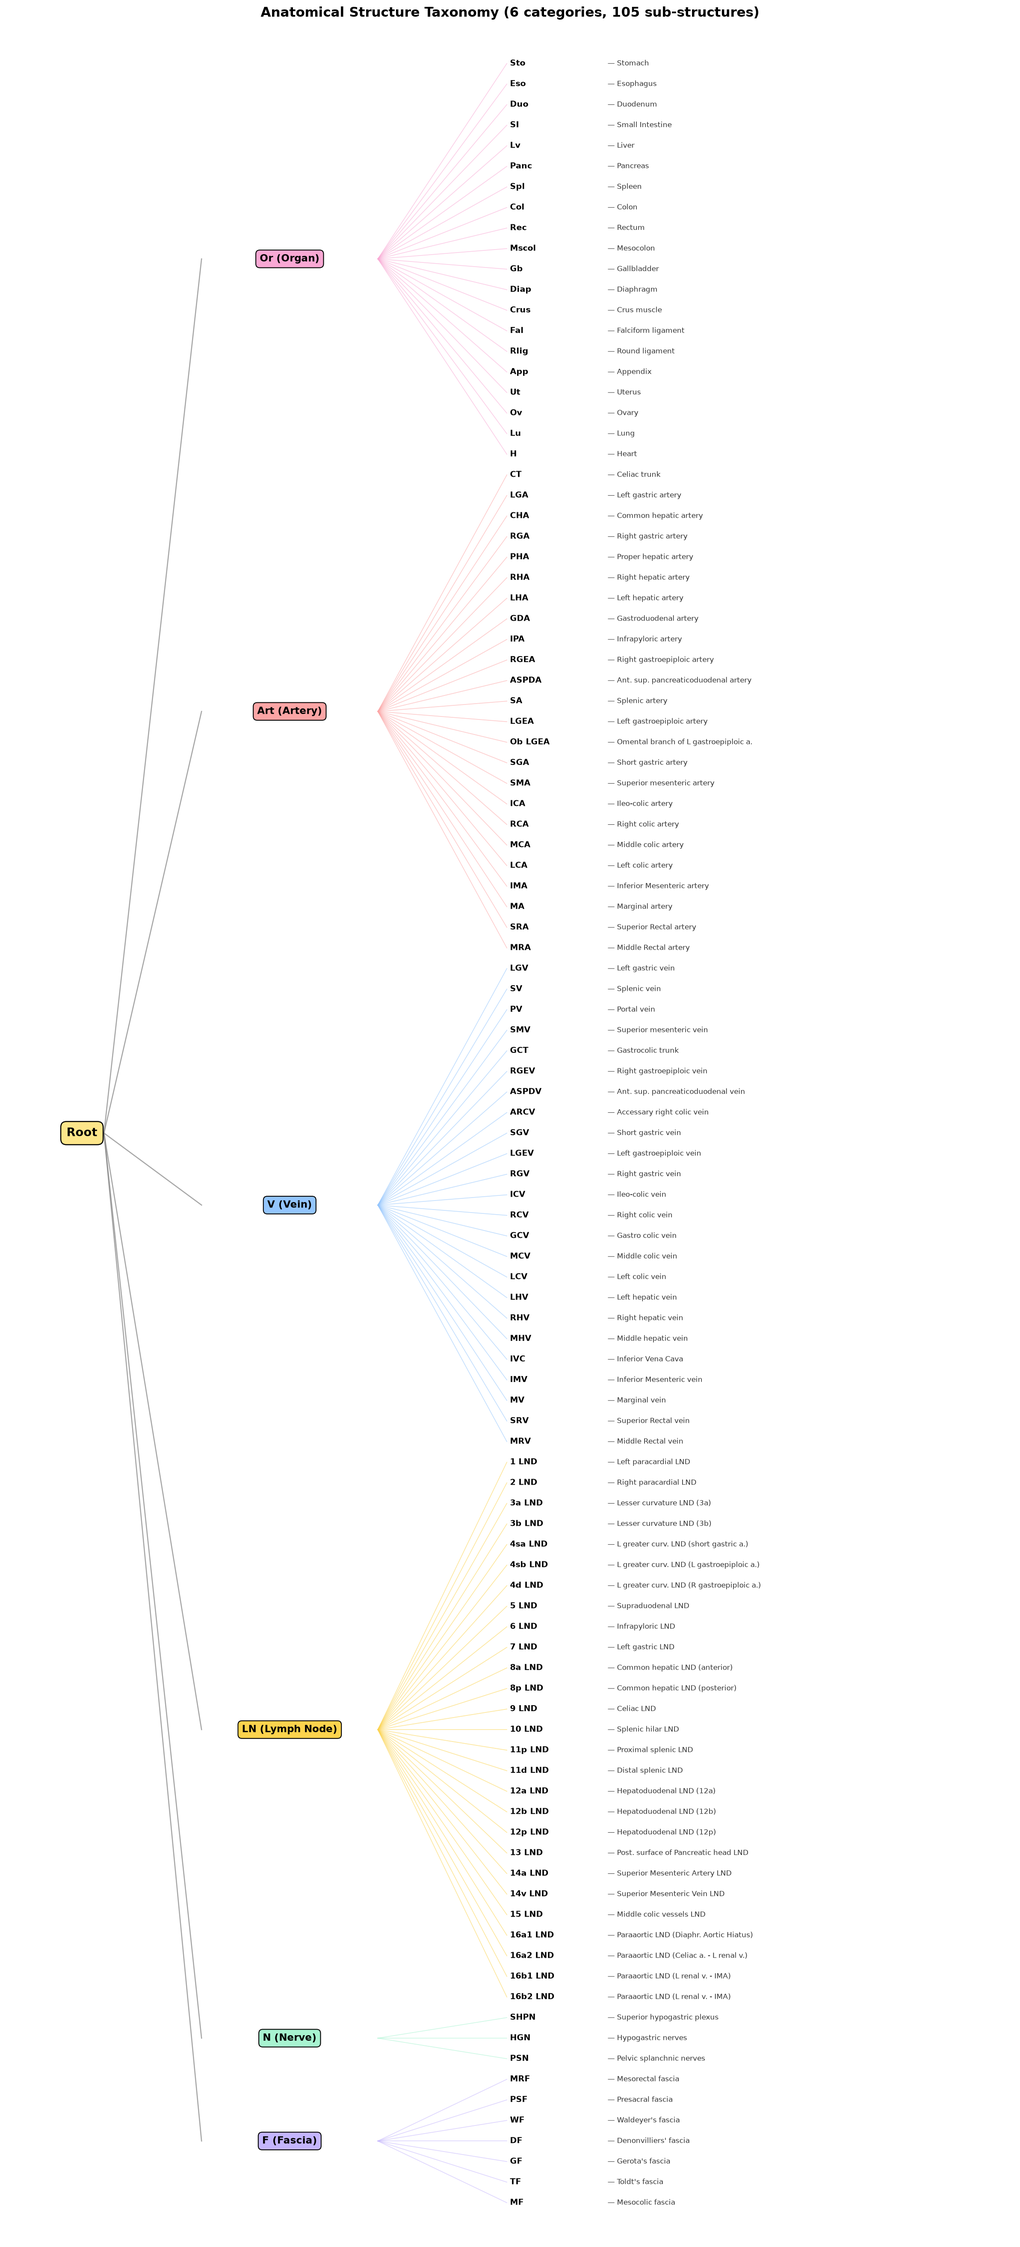
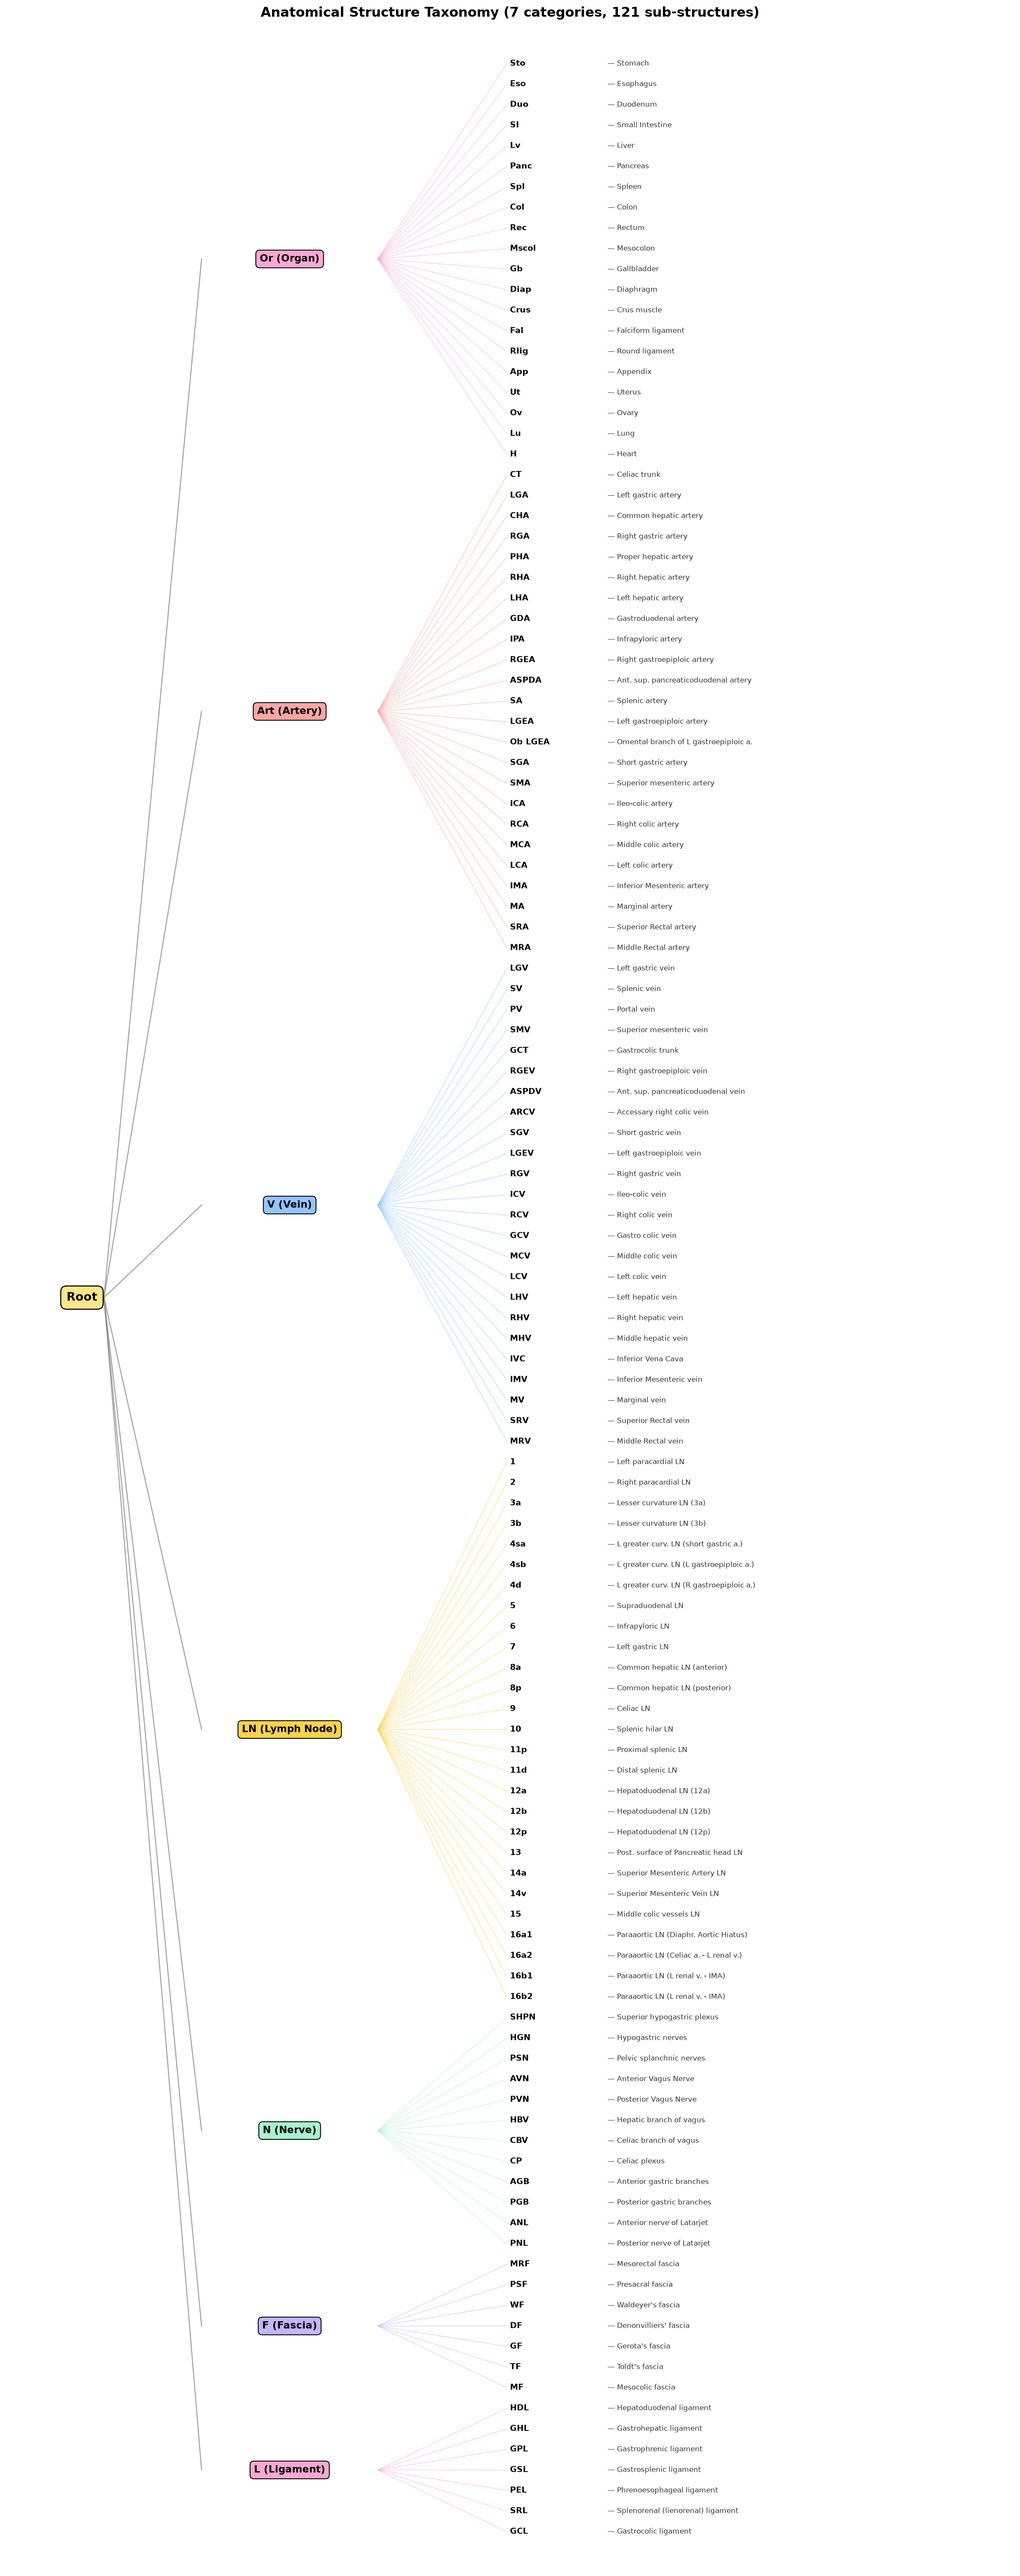
docs: sync TAXONOMY.md and PNG trees with 0809 spec
Phase gains LND category (73 leaves total); Structure LN drops the LND suffix
and Structure gains Ligament (L) with 7 items plus 9 Vagus-family Nerve items
(121 leaves total).

diff --git a/docs/draw_taxonomy.py b/docs/draw_taxonomy.py
@@ -67,6 +67,38 @@ PHASE = {
         ("Irr", "Irrigation"),
         ("SR", "Specimen Removal"),
         ("DI", "Drain Insertion"),
+        ("DeID", "De-identification phase"),
+        ("IRR-Ph", "Irrelevant phase"),
+        ("CamClean", "Camera cleaning phase"),
+    ],
+    "LND (Lymph Node Dissection)": [
+        ("1 LND", "Left paracardial LND"),
+        ("2 LND", "Right paracardial LND"),
+        ("3a LND", "Lesser curvature LND (3a)"),
+        ("3b LND", "Lesser curvature LND (3b)"),
+        ("4sa LND", "Left greater curv. LND (short gastric a.)"),
+        ("4sb LND", "Left greater curv. LND (L gastroepiploic a.)"),
+        ("4d LND", "Left greater curv. LND (R gastroepiploic a.)"),
+        ("5 LND", "Supraduodenal LND"),
+        ("6 LND", "Infrapyloric LND"),
+        ("7 LND", "Left gastric LND"),
+        ("8a LND", "Common hepatic LND (anterior)"),
+        ("8p LND", "Common hepatic LND (posterior)"),
+        ("9 LND", "Celiac LND"),
+        ("10 LND", "Splenic hilar LND"),
+        ("11p LND", "Proximal splenic LND"),
+        ("11d LND", "Distal splenic LND"),
+        ("12a LND", "Hepatoduodenal LND (12a)"),
+        ("12b LND", "Hepatoduodenal LND (12b)"),
+        ("12p LND", "Hepatoduodenal LND (12p)"),
+        ("13 LND", "Post. surface of Pancreatic head LND"),
+        ("14a LND", "Superior Mesenteric Artery LND"),
+        ("14v LND", "Superior Mesenteric Vein LND"),
+        ("15 LND", "Middle colic vessels LND"),
+        ("16a1 LND", "Paraaortic LND (Diaphr. Aortic Hiatus)"),
+        ("16a2 LND", "Paraaortic LND (Celiac a. - L renal v.)"),
+        ("16b1 LND", "Paraaortic LND (L renal v. - IMA)"),
+        ("16b2 LND", "Paraaortic LND (L renal v. - IMA)"),
     ],
 }
 
@@ -112,38 +144,47 @@ STRUCTURE = {
         ("SRV", "Superior Rectal vein"), ("MRV", "Middle Rectal vein"),
     ],
     "LN (Lymph Node)": [
-        ("1 LND", "Left paracardial LND"),
-        ("2 LND", "Right paracardial LND"),
-        ("3a LND", "Lesser curvature LND (3a)"),
-        ("3b LND", "Lesser curvature LND (3b)"),
-        ("4sa LND", "L greater curv. LND (short gastric a.)"),
-        ("4sb LND", "L greater curv. LND (L gastroepiploic a.)"),
-        ("4d LND", "L greater curv. LND (R gastroepiploic a.)"),
-        ("5 LND", "Supraduodenal LND"),
-        ("6 LND", "Infrapyloric LND"),
-        ("7 LND", "Left gastric LND"),
-        ("8a LND", "Common hepatic LND (anterior)"),
-        ("8p LND", "Common hepatic LND (posterior)"),
-        ("9 LND", "Celiac LND"),
-        ("10 LND", "Splenic hilar LND"),
-        ("11p LND", "Proximal splenic LND"),
-        ("11d LND", "Distal splenic LND"),
-        ("12a LND", "Hepatoduodenal LND (12a)"),
-        ("12b LND", "Hepatoduodenal LND (12b)"),
-        ("12p LND", "Hepatoduodenal LND (12p)"),
-        ("13 LND", "Post. surface of Pancreatic head LND"),
-        ("14a LND", "Superior Mesenteric Artery LND"),
-        ("14v LND", "Superior Mesenteric Vein LND"),
-        ("15 LND", "Middle colic vessels LND"),
-        ("16a1 LND", "Paraaortic LND (Diaphr. Aortic Hiatus)"),
-        ("16a2 LND", "Paraaortic LND (Celiac a. - L renal v.)"),
-        ("16b1 LND", "Paraaortic LND (L renal v. - IMA)"),
-        ("16b2 LND", "Paraaortic LND (L renal v. - IMA)"),
+        ("1", "Left paracardial LN"),
+        ("2", "Right paracardial LN"),
+        ("3a", "Lesser curvature LN (3a)"),
+        ("3b", "Lesser curvature LN (3b)"),
+        ("4sa", "L greater curv. LN (short gastric a.)"),
+        ("4sb", "L greater curv. LN (L gastroepiploic a.)"),
+        ("4d", "L greater curv. LN (R gastroepiploic a.)"),
+        ("5", "Supraduodenal LN"),
+        ("6", "Infrapyloric LN"),
+        ("7", "Left gastric LN"),
+        ("8a", "Common hepatic LN (anterior)"),
+        ("8p", "Common hepatic LN (posterior)"),
+        ("9", "Celiac LN"),
+        ("10", "Splenic hilar LN"),
+        ("11p", "Proximal splenic LN"),
+        ("11d", "Distal splenic LN"),
+        ("12a", "Hepatoduodenal LN (12a)"),
+        ("12b", "Hepatoduodenal LN (12b)"),
+        ("12p", "Hepatoduodenal LN (12p)"),
+        ("13", "Post. surface of Pancreatic head LN"),
+        ("14a", "Superior Mesenteric Artery LN"),
+        ("14v", "Superior Mesenteric Vein LN"),
+        ("15", "Middle colic vessels LN"),
+        ("16a1", "Paraaortic LN (Diaphr. Aortic Hiatus)"),
+        ("16a2", "Paraaortic LN (Celiac a. - L renal v.)"),
+        ("16b1", "Paraaortic LN (L renal v. - IMA)"),
+        ("16b2", "Paraaortic LN (L renal v. - IMA)"),
     ],
     "N (Nerve)": [
         ("SHPN", "Superior hypogastric plexus"),
         ("HGN", "Hypogastric nerves"),
         ("PSN", "Pelvic splanchnic nerves"),
+        ("AVN", "Anterior Vagus Nerve"),
+        ("PVN", "Posterior Vagus Nerve"),
+        ("HBV", "Hepatic branch of vagus"),
+        ("CBV", "Celiac branch of vagus"),
+        ("CP", "Celiac plexus"),
+        ("AGB", "Anterior gastric branches"),
+        ("PGB", "Posterior gastric branches"),
+        ("ANL", "Anterior nerve of Latarjet"),
+        ("PNL", "Posterior nerve of Latarjet"),
     ],
     "F (Fascia)": [
         ("MRF", "Mesorectal fascia"),
@@ -153,6 +194,15 @@ STRUCTURE = {
         ("GF", "Gerota's fascia"),
         ("TF", "Toldt's fascia"),
         ("MF", "Mesocolic fascia"),
+    ],
+    "L (Ligament)": [
+        ("HDL", "Hepatoduodenal ligament"),
+        ("GHL", "Gastrohepatic ligament"),
+        ("GPL", "Gastrophrenic ligament"),
+        ("GSL", "Gastrosplenic ligament"),
+        ("PEL", "Phrenoesophageal ligament"),
+        ("SRL", "Splenorenal (lienorenal) ligament"),
+        ("GCL", "Gastrocolic ligament"),
     ],
 }
 

diff --git a/docs/TAXONOMY.md b/docs/TAXONOMY.md
@@ -1,52 +1,31 @@
 # Annotation Taxonomy
 
 Gastric + colorectal surgery annotation taxonomies used by BS-Segmentation-Tool.
-Leaf labels are the abbreviations that get saved to JSON; the text after `—` is the tooltip / full name.
+Leaf labels are the abbreviations that get saved to JSON; the text after `—` is
+the tooltip / full name.
 
-Change (2026-08): LND category moved from Phase → Structure (as **LN**); Phase gains **Om** (Omentectomy) and colorectal items in VL/OT/OR; Structure gains **LN**, **N** (Nerve), **F** (Fascia).
+Change (2026-09): The LND concept split into two: **Phase > LND** captures the
+dissection action (station numbers carry an `LND` suffix), **Structure > LN**
+captures the node as anatomy (station numbers only). Phase Etc gains
+De-identification / Irrelevant / Camera cleaning. Structure gains a **Ligament
+(L)** category, and Nerve (N) is extended with 9 Vagus-family items.
 
 ---
 
-## Surgical Phase (5 categories, 43 sub-phases)
+## Surgical Phase (6 categories, 73 sub-phases)
 
 - **Root**
   - **Om** — Omentectomy (2)
     - PO — Partial Omentectomy
     - TO — Total Omentectomy
   - **VL** — Vessel Ligation (15)
-    - LGEV — Left Gastro Epiploic Vessel Ligation
-    - RGEV — Right Gastro Epiploic Vessel Ligation
-    - RGV — Right Gastric Vessel Ligation
-    - LGV — Left Gastric Vessel Ligation
-    - SGV — Short Gastric Vessel Ligation
-    - PGV — Posterior Gastric Vessel Ligation
-    - RCV — Right Colic Vessel Ligation
-    - MCV — Middle Colic Vessel Ligation
-    - ICVL — Ileocolic Vessel Ligation
-    - RCVL — Right Colic Vessel Ligation
-    - MCVL — Middle Colic Vessel Ligation
-    - RBMCVL — Middle Colic Vessel Right Branch Ligation
-    - LCVL — Left Colic Vessel Ligation
-    - IMVL — Inferior Mesenteric Vessel Ligation
-    - MRVL — Middle Rectal Vessel Ligation
+    - LGEV, RGEV, RGV, LGV, SGV, PGV, RCV, MCV
+    - ICVL, RCVL, MCVL, RBMCVL, LCVL, IMVL, MRVL
   - **OT** — Organ Transection (7)
-    - DT — Duodenum Transection
-    - ST — Stomach Transection
-    - ET — Esophagus Transection
-    - JT — Jejunum Transection
-    - CT — Colon Transection
-    - IT — Ileum Transection
-    - RT — Rectum Transection
+    - DT, ST, ET, JT, CT, IT, RT
   - **OR** — Organ Reconstruction (8)
-    - GJ — GastroJejunostomy
-    - GD — GastroDuodenostomy
-    - EJ — EsophagoJejunostomy
-    - JJ — JejunoJejunostomy
-    - EG — EsophagoGastrostomy
-    - IC — Ileocolostomy
-    - CC — Colocolostomy
-    - CR — Colorectostomy
-  - **Etc** — Miscellaneous (11)
+    - GJ, GD, EJ, JJ, EG, IC, CC, CR
+  - **Etc** — Miscellaneous (14)
     - TP — Trocar Placement
     - PE — Peritoneal Exploration
     - WC — Washing Cytology
@@ -58,120 +37,64 @@ Change (2026-08): LND category moved from Phase → Structure (as **LN**); Phase
     - Irr — Irrigation
     - SR — Specimen Removal
     - DI — Drain Insertion
+    - **DeID** — De-identification phase (faces / IDs visible)
+    - **IRR-Ph** — Irrelevant phase (unrelated to surgery)
+    - **CamClean** — Camera cleaning phase
+  - **LND** — Lymph Node Dissection (27) *(action; station numbers carry "LND")*
+    - 1 LND, 2 LND, 3a LND, 3b LND
+    - 4sa LND, 4sb LND, 4d LND
+    - 5 LND, 6 LND, 7 LND
+    - 8a LND, 8p LND, 9 LND, 10 LND
+    - 11p LND, 11d LND
+    - 12a LND, 12b LND, 12p LND
+    - 13 LND, 14a LND, 14v LND, 15 LND
+    - 16a1 LND, 16a2 LND, 16b1 LND, 16b2 LND
 
 ---
 
-## Anatomical Structure (6 categories, 105 sub-structures)
+## Anatomical Structure (7 categories, 121 sub-structures)
 
 - **Root**
-  - **Or** — Organ (20)
-    - Sto — Stomach
-    - Eso — Esophagus
-    - Duo — Duodenum
-    - SI — Small Intestine
-    - Lv — Liver
-    - Panc — Pancreas
-    - Spl — Spleen
-    - Col — Colon
-    - Rec — Rectum
-    - Mscol — Mesocolon
-    - Gb — Gallbladder
-    - Diap — Diaphragm
-    - Crus — Crus muscle
-    - Fal — Falciform ligament
-    - Rlig — Round ligament
-    - App — Appendix
-    - Ut — Uterus
-    - Ov — Ovary
-    - Lu — Lung
-    - H — Heart
-  - **Art** — Artery (24)
-    - CT — Celiac trunk
-    - LGA — Left gastric artery
-    - CHA — Common hepatic artery
-    - RGA — Right gastric artery
-    - PHA — Proper hepatic artery
-    - RHA — Right hepatic artery
-    - LHA — Left hepatic artery
-    - GDA — Gastroduodenal artery
-    - IPA — Infrapyloric artery
-    - RGEA — Right gastroepiploic artery
-    - ASPDA — Anterior superior pancreaticoduodenal artery
-    - SA — Splenic artery
-    - LGEA — Left gastroepiploic artery
-    - Ob LGEA — Omental branch of left gastroepiploic artery
-    - SGA — Short gastric artery
-    - SMA — Superior mesenteric artery
-    - ICA — Ileo-colic artery
-    - RCA — Right colic artery
-    - MCA — Middle colic artery
-    - LCA — Left colic artery
-    - IMA — Inferior Mesenteric artery
-    - MA — Marginal artery
-    - SRA — Superior Rectal artery
-    - MRA — Middle Rectal artery
-  - **V** — Vein (24)
-    - LGV — Left gastric vein
-    - SV — Splenic vein
-    - PV — Portal vein
-    - SMV — Superior mesenteric vein
-    - GCT — Gastrocolic trunk
-    - RGEV — Right gastroepiploic vein
-    - ASPDV — Anterior superior pancreaticoduodenal vein
-    - ARCV — Accessary right colic vein
-    - SGV — Short gastric vein
-    - LGEV — Left gastroepiploic vein
-    - RGV — Right gastric vein
-    - ICV — Ileo-colic vein
-    - RCV — Right colic vein
-    - GCV — Gastro colic vein
-    - MCV — Middle colic vein
-    - LCV — Left colic vein
-    - LHV — Left hepatic vein
-    - RHV — Right hepatic vein
-    - MHV — Middle hepatic vein
-    - IVC — Inferior Vena Cava
-    - IMV — Inferior Mesenteric vein
-    - MV — Marginal vein
-    - SRV — Superior Rectal vein
-    - MRV — Middle Rectal vein
-  - **LN** — Lymph Node (27)
-    - 1 LND — Left paracardial LND
-    - 2 LND — Right paracardial LND
-    - 3a LND — Lesser curvature LND (3a)
-    - 3b LND — Lesser curvature LND (3b)
-    - 4sa LND — Left greater curvature LND (short gastric artery)
-    - 4sb LND — Left greater curvature LND (left gastroepiploic artery)
-    - 4d LND — Left greater curvature LND (right gastroepiploic artery)
-    - 5 LND — Supraduodenal LND
-    - 6 LND — Infrapyloric LND
-    - 7 LND — Left gastric LND
-    - 8a LND — Common hepatic LND (anterior)
-    - 8p LND — Common hepatic LND (posterior)
-    - 9 LND — Celiac LND
-    - 10 LND — Splenic hilar LND
-    - 11p LND — Proximal splenic LND
-    - 11d LND — Distal splenic LND
-    - 12a LND — Hepatoduodenal LND (12a)
-    - 12b LND — Hepatoduodenal LND (12b)
-    - 12p LND — Hepatoduodenal LND (12p)
-    - 13 LND — Posterior surface of Pancreatic head LND
-    - 14a LND — Superior Mesenteric Artery LND
-    - 14v LND — Superior Mesenteric Vein LND
-    - 15 LND — Middle colic vessels LND
-    - 16a1 LND — Paraaortic LND (Diaphragmatic Aortic Hiatus)
-    - 16a2 LND — Paraaortic LND (Celiac artery – Left renal vein)
-    - 16b1 LND — Paraaortic LND (Left renal vein – Inferior mesenteric artery)
-    - 16b2 LND — Paraaortic LND (Left renal vein – Inferior mesenteric artery)
-  - **N** — Nerve (3)
-    - SHPN — Superior hypogastric plexus
-    - HGN — Hypogastric nerves
-    - PSN — Pelvic splanchnic nerves
-  - **F** — Fascia (7)
-    - MRF — Mesorectal fascia
-    - PSF — Presacral fascia
-    - WF — Waldeyer's fascia
-    - DF — Denonvilliers' fascia
-    - GF — Gerota's fascia
-    - TF — Toldt's fascia
-    - MF — Mesocolic fascia
+  - **Or** — Organ (20) — unchanged
+  - **Art** — Artery (24) — unchanged
+  - **V** — Vein (24) — unchanged
+  - **LN** — Lymph Node (27) *(anatomy; station numbers only, no LND suffix)*
+    - 1, 2, 3a, 3b, 4sa, 4sb, 4d
+    - 5, 6, 7, 8a, 8p, 9, 10, 11p, 11d
+    - 12a, 12b, 12p, 13, 14a, 14v, 15
+    - 16a1, 16a2, 16b1, 16b2
+  - **N** — Nerve (12) *(extended)*
+    - SHPN, HGN, PSN (pelvic autonomic)
+    - **AVN** — Anterior Vagus Nerve
+    - **PVN** — Posterior Vagus Nerve
+    - **HBV** — Hepatic branch of vagus
+    - **CBV** — Celiac branch of vagus
+    - **CP**  — Celiac plexus
+    - **AGB** — Anterior gastric branches
+    - **PGB** — Posterior gastric branches
+    - **ANL** — Anterior nerve of Latarjet
+    - **PNL** — Posterior nerve of Latarjet
+  - **F** — Fascia (7) — unchanged
+  - **L** — Ligament (7) *(new)*
+    - HDL — Hepatoduodenal ligament
+    - GHL — Gastrohepatic ligament
+    - GPL — Gastrophrenic ligament
+    - GSL — Gastrosplenic ligament
+    - PEL — Phrenoesophageal ligament
+    - SRL — Splenorenal (lienorenal) ligament
+    - GCL — Gastrocolic ligament
+
+---
+
+## Structural notes
+
+* Phase and Structure both use sparse-keyframe carry-forward semantics. Only frames
+  where the selection **changes** are recorded; effective selection at frame N is
+  the nearest key ≤ N. See `getEffectivePhases()` / `getEffectiveStructures()` in
+  `templates/index.html`.
+* Structure is a **tagging** surface (multi-select checkboxes), not a drawing
+  target. To segment an organ, add it as an Instrument Class and paint on the
+  canvas.
+* PNG trees regenerated by `python docs/draw_taxonomy.py` after any taxonomy
+  change; keep this file and the two PNGs in sync with `state.phaseDefinitions`
+  / `state.structureDefinitions`.
